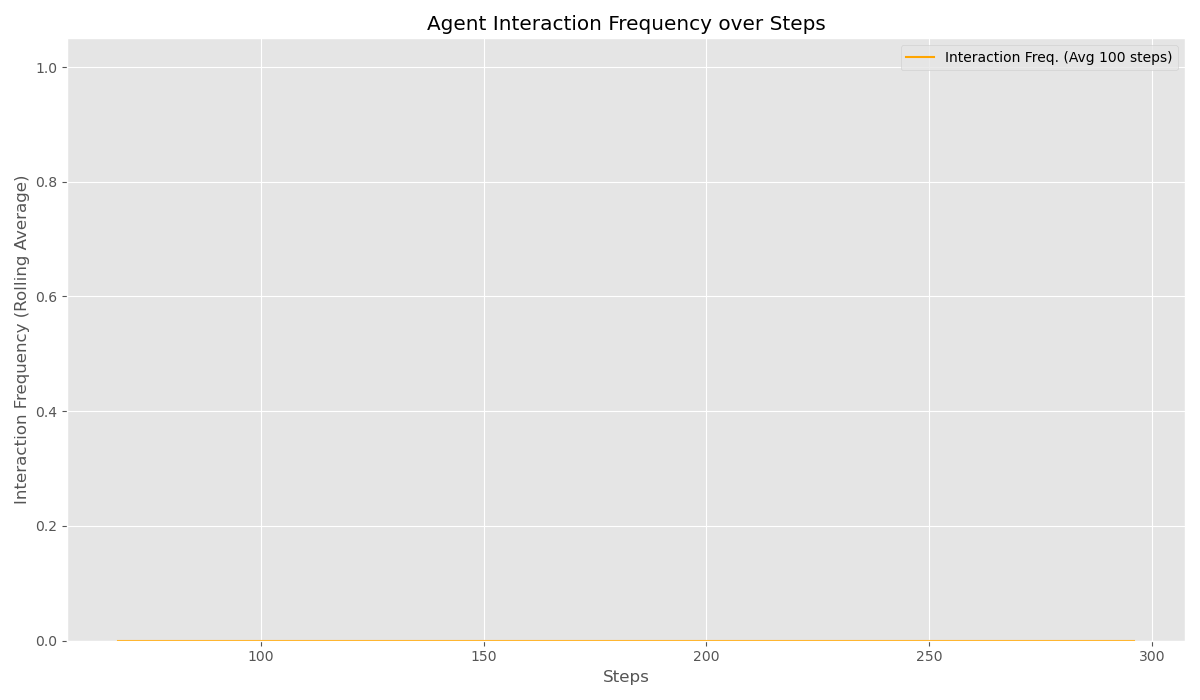
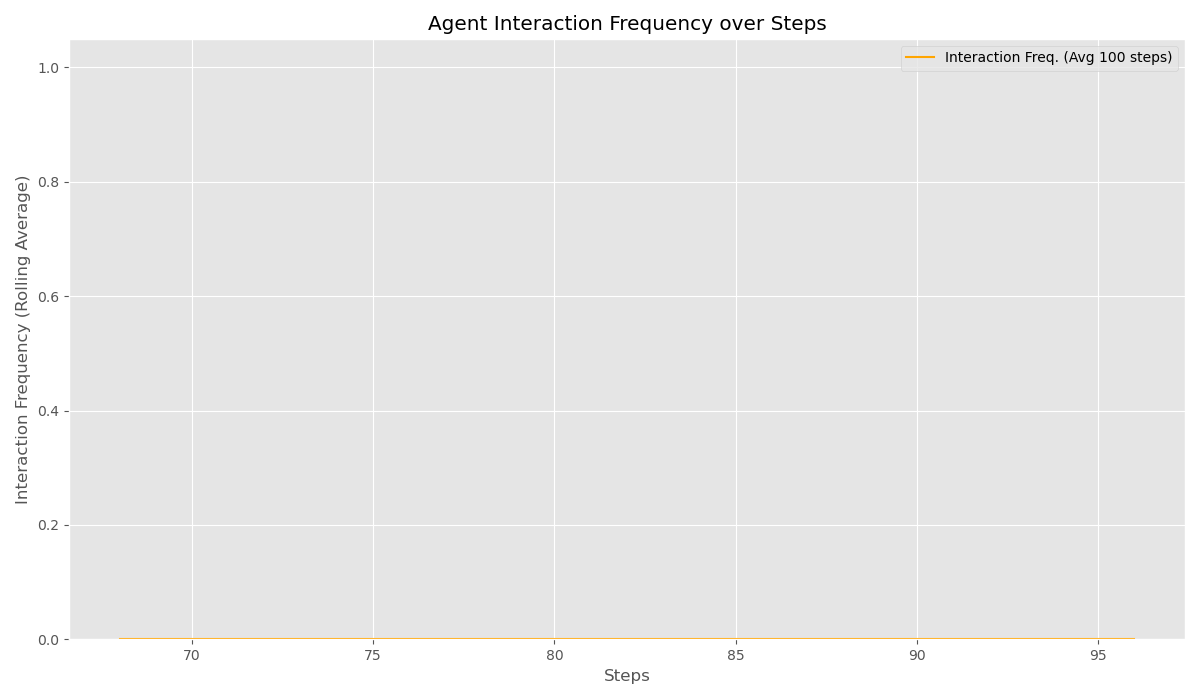
Perspektive Ego geändert

diff --git a/src/environment.py b/src/environment.py
@@ -107,19 +107,61 @@ class Environment:
         for oid in [self.agent_id, self.cylinder_id, self.disk_id, self.pyramid_id]:
             p.resetBaseVelocity(oid, [0,0,0], [0,0,0])
 
-    def get_camera_image(self):
+    def get_camera_image(self) -> np.ndarray:
+        """
+        Capture the current camera view from the perspective of the specified agent.
+
+        Args:
+            agent_id (int): The unique ID of the agent (self.agent_id_1 or self.agent_id_2).
+
+        Returns:
+            np.ndarray: RGB image array (height, width, 3).
+        """
+
+        # Camera offset: Position relative to agent
+        camera_offset = [0.0, 0.0, 0.2]  # Camera slightly above agent center
+
+        # Get agent position and orientation
         agent_pos, agent_ori = p.getBasePositionAndOrientation(self.agent_id)
+
+        # Calculate forward direction based on current yaw rotation
         euler = p.getEulerFromQuaternion(agent_ori)
-        yaw = euler[2]
-        forward = [math.cos(yaw), math.sin(yaw), 0]
-        half=0.2; cam_h=half+0.3; back=0.3
-        eye = np.array(agent_pos) + np.array([0,0,cam_h]) - np.array(forward)*back
-        target = np.array(agent_pos) + np.array([0,0,half])
-        view = p.computeViewMatrix(eye.tolist(), target.tolist(), [0,0,1])
-        proj = p.computeProjectionMatrixFOV(90,1.0,0.1,10.0)
-        w,h,rgb,_,_ = p.getCameraImage(640,480,viewMatrix=view,projectionMatrix=proj)
-        img = np.array(rgb, dtype=np.uint8).reshape(h,w,4)
-        return img[:,:,:3]
+        yaw = euler[2]  # Yaw angle (rotation around Z-axis)
+
+        # Define forward direction in world coordinates
+        forward_dir = np.array([math.cos(yaw), math.sin(yaw), 0])
+
+        # Camera position relative to agent
+        camera_eye = np.array(agent_pos) + np.array(camera_offset)
+
+        # Target point for camera to look at
+        camera_target = camera_eye + forward_dir * 2.0  # Look 2 units ahead
+
+        # Calculate view matrix
+        view_matrix = p.computeViewMatrix(
+            cameraEyePosition=camera_eye.tolist(),
+            cameraTargetPosition=camera_target.tolist(),
+            cameraUpVector=[0, 0, 1]  # "Up" is Z-axis
+        )
+
+        # Define projection matrix
+        projection_matrix = p.computeProjectionMatrixFOV(
+            fov=90, aspect=1.0, nearVal=0.1, farVal=10.0
+        )
+
+        # Capture camera image
+        width, height, rgb_img, _, _ = p.getCameraImage(
+            width=640, height=480,
+            viewMatrix=view_matrix,
+            projectionMatrix=projection_matrix,
+            renderer=p.ER_BULLET_HARDWARE_OPENGL
+        )
+
+        # Convert to RGB array
+        rgb_array = np.array(rgb_img, dtype=np.uint8).reshape(height, width, 4)
+        rgb_image = rgb_array[:, :, :3]  # Remove alpha channel
+
+        return rgb_image
 
     def get_state(self):
         agent_pos, agent_ori = p.getBasePositionAndOrientation(self.agent_id)

diff --git a/src/simulation.py b/src/simulation.py
@@ -5,13 +5,13 @@ from curiosity_driven_agent import CuriosityDrivenAgent
 from video_recorder import VideoRecorder
 from metric_logger import MetricLogger
 
-MAX_STEPS = 300
+MAX_STEPS = 100
 BATCH_SIZE = 64
 INTERACTION_DISTANCE_THRESHOLD = 0.8
 EPSILON_GREEDY = 0.3
 UPDATE_EVERY_N_STEPS = 4
-VISUALIZE_VAE_AFTER_STEPS = 1000
-VISUALIZE_RNN_AFTER_STEPS = 1000
+VISUALIZE_VAE_AFTER_STEPS = 100
+VISUALIZE_RNN_AFTER_STEPS = 100
 LOG_DIR = "logs/SingleAgent_V1"
 
 
